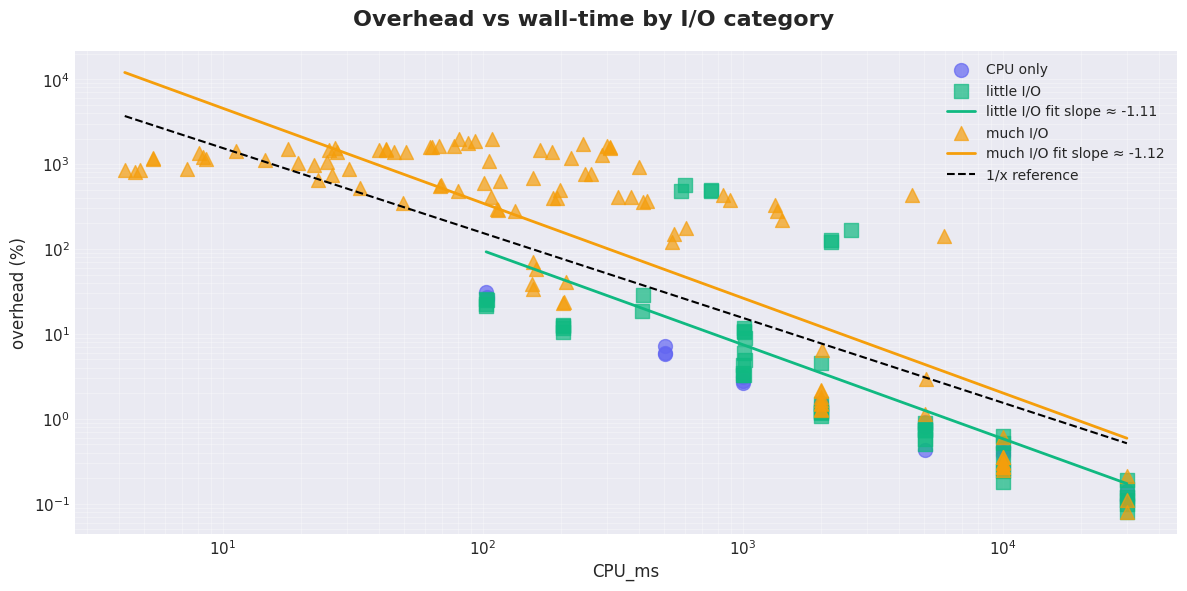
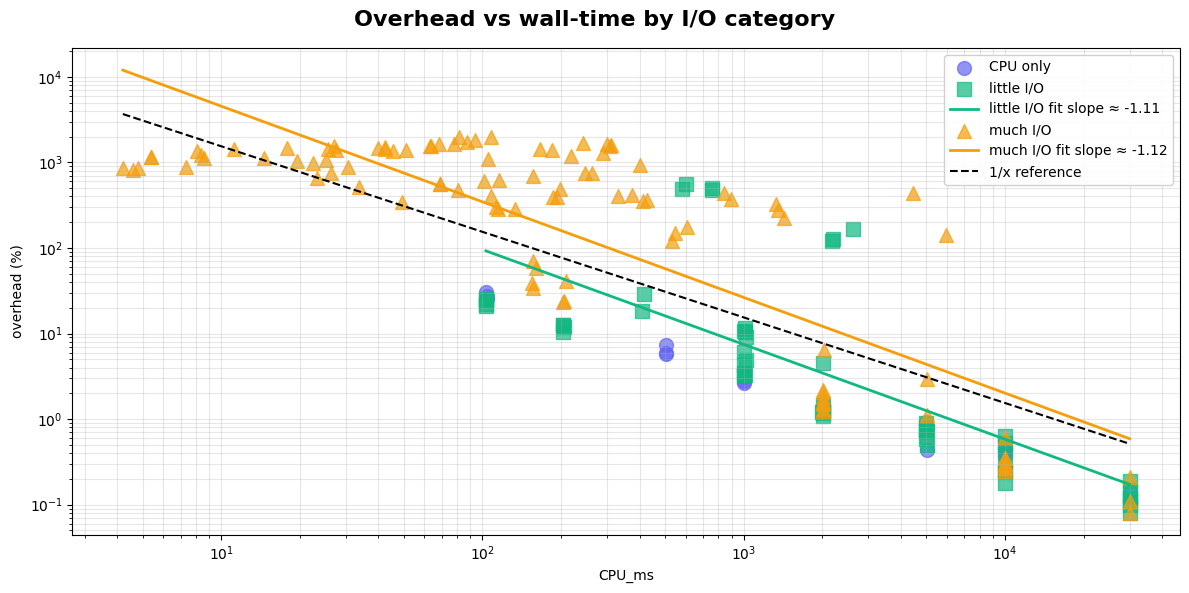
deleted error bars, adjusted legends of plots, draft for text on page.tsx

diff --git a/src/app/benchmarks/page.tsx b/src/app/benchmarks/page.tsx
@@ -13,22 +13,27 @@ export default function BenchmarksPage() {
     }, []);
 
     return (
-        <Page title='Overhead Scaling vs Wall-Time'>
+        <Page title='Benchmarks'>
             <div className='space-y-10'>
                 <div className='text-lg text-slate-700 max-w-3xl'>
-                    Investigation of how overhead scales with wall-time. Expect 1/x behavior for post-processing; for
-                    tracing, scaling depends on syscall intensity (I/O and metadata operations).
+                    Log–log scaling plots for I/O datasize overhead and CPU-only tracing overhead versus runtime.
+                </div>
+                <div className='text-sm text-slate-600 max-w-3xl'>
+                    Both plots demonstrate negative scaling exponents, meaning overhead decreases as total data size
+                    increases. Smaller file sizes exhibit stronger scaling (steeper negative slopes), while larger file
+                    configurations show weaker but still negative trends. The high variability in overhead percentages
+                    reflects the inherent costs of syscall tracing across diverse I/O patterns.
                 </div>
 
                 <div className='bg-white rounded-lg shadow-lg overflow-hidden'>
                     <div className='p-6 bg-gradient-to-r from-slate-50 to-slate-50'>
-                        <h2 className='text-2xl font-bold text-slate-900 mb-1'>Post-processing vs runtime</h2>
-                        <p className='text-slate-600 text-sm'>Log–log scatter with fit slope and 1/x reference</p>
+                        <h2 className='text-2xl font-bold text-slate-900 mb-1'>I/O datasize vs overhead</h2>
+                        <p className='text-slate-600 text-sm'>Log–log scatter with fit</p>
                     </div>
                     <div className='p-4'>
                         <Image
-                            src='/benchmarks/scaling_postproc_vs_runtime.png'
-                            alt='Post-processing overhead versus runtime'
+                            src='/benchmarks/scaling_io_datasize_vs_overhead_loglog.png'
+                            alt='I/O datasize versus overhead (log-log)'
                             width={1400}
                             height={700}
                             className='w-full h-auto'
@@ -40,15 +45,13 @@ export default function BenchmarksPage() {
 
                 <div className='bg-white rounded-lg shadow-lg overflow-hidden'>
                     <div className='p-6 bg-gradient-to-r from-slate-50 to-slate-50'>
-                        <h2 className='text-2xl font-bold text-slate-900 mb-1'>Tracing vs runtime</h2>
-                        <p className='text-slate-600 text-sm'>
-                            Log–log scatter by writing-level with fits and 1/x reference
-                        </p>
+                        <h2 className='text-2xl font-bold text-slate-900 mb-1'>CPU-only tracing vs runtime</h2>
+                        <p className='text-slate-600 text-sm'>Log–log scatter with fit and 1/x reference</p>
                     </div>
                     <div className='p-4'>
                         <Image
-                            src='/benchmarks/scaling_tracing_vs_runtime.png'
-                            alt='Tracing overhead versus runtime'
+                            src='/benchmarks/scaling_tracing_vs_runtime_cpu_only.png'
+                            alt='CPU-only tracing overhead versus runtime'
                             width={1400}
                             height={700}
                             className='w-full h-auto'
@@ -59,7 +62,7 @@ export default function BenchmarksPage() {
                 </div>
 
                 <div className='text-center text-xs text-slate-500'>
-                    <p>Generated: {generatedDate || '—'} | Data: tools/runtime_overhead.csv</p>
+                    <p>Generated: {generatedDate || '—'} | Data: tools/polytrace/test/benchmarks/results.csv</p>
                 </div>
             </div>
         </Page>

diff --git a/tools/polytrace/test/benchmarks/plot_io_scaling_filesize.py b/tools/polytrace/test/benchmarks/plot_io_scaling_filesize.py
@@ -103,22 +103,17 @@ def main():
         stds = np.array([p[2] for p in points])
 
         color = colors.get(file_size_mb, '#999999')
-        # Plot mean values with error bars (std dev)
-        ax.errorbar(
+        
+        ax.scatter(
             total_mbs,
             means,
-            yerr=stds,
-            fmt='o',
             color=color,
-            ecolor=color,
-            elinewidth=1,
-            capsize=3,
-            markersize=6,
-            label=f'{file_size_mb}MB files (mean ± std)',
+            s=40,
+            label=f'{file_size_mb}MB files (mean)',
             zorder=3,
         )
 
-        # Fit and plot line on mean values
+    
         if len(total_mbs) >= 2:
             m, b = _fit_loglog(total_mbs, means)
             x_line = np.linspace(total_mbs.min(), total_mbs.max(), 200)
@@ -129,8 +124,9 @@ def main():
     ax.set_yscale('log')
     ax.set_xlabel('Total data size (MB)')
     ax.set_ylabel('Overhead (%)')
+    # ax.set_ylim(2e2, 3e3)
     ax.grid(True, which='both', alpha=0.3)
-    ax.legend(loc='best', framealpha=0.9)
+    ax.legend(loc='best', framealpha=0.9, fontsize=12)
     plt.tight_layout()
     
     output_file = output_dir / 'scaling_io_datasize_vs_overhead_loglog.png'

diff --git a/tools/polytrace/test/benchmarks/plot_cpu_overhead.py b/tools/polytrace/test/benchmarks/plot_cpu_overhead.py
@@ -37,9 +37,9 @@ def main():
                 continue
             try:
                 wall_untraced = float(row['wall_ms_untraced'])
-                traced_ms = float(row['traced_ms'] or 0)
-                if wall_untraced > 0 and traced_ms > 0:
-                    overhead_pct = ((traced_ms - wall_untraced) / wall_untraced) * 100
+                wall_traced = float(row['wall_ms_traced'] or 0)
+                if wall_untraced > 0 and wall_traced > 0:
+                    overhead_pct = ((wall_traced - wall_untraced) / wall_untraced) * 100
                     runtimes.append(wall_untraced)
                     overheads.append(overhead_pct)
             except (ValueError, KeyError):
@@ -71,7 +71,7 @@ def main():
     ax.set_xlabel('Runtime (ms)')
     ax.set_ylabel('Overhead (%)')
     ax.grid(True, which='both', alpha=0.3)
-    ax.legend(loc='upper right', framealpha=0.9)
+    ax.legend(loc='upper right', framealpha=0.9, fontsize=12)
     plt.tight_layout()
     
     output_file = output_dir / 'scaling_tracing_vs_runtime_cpu_only.png'
